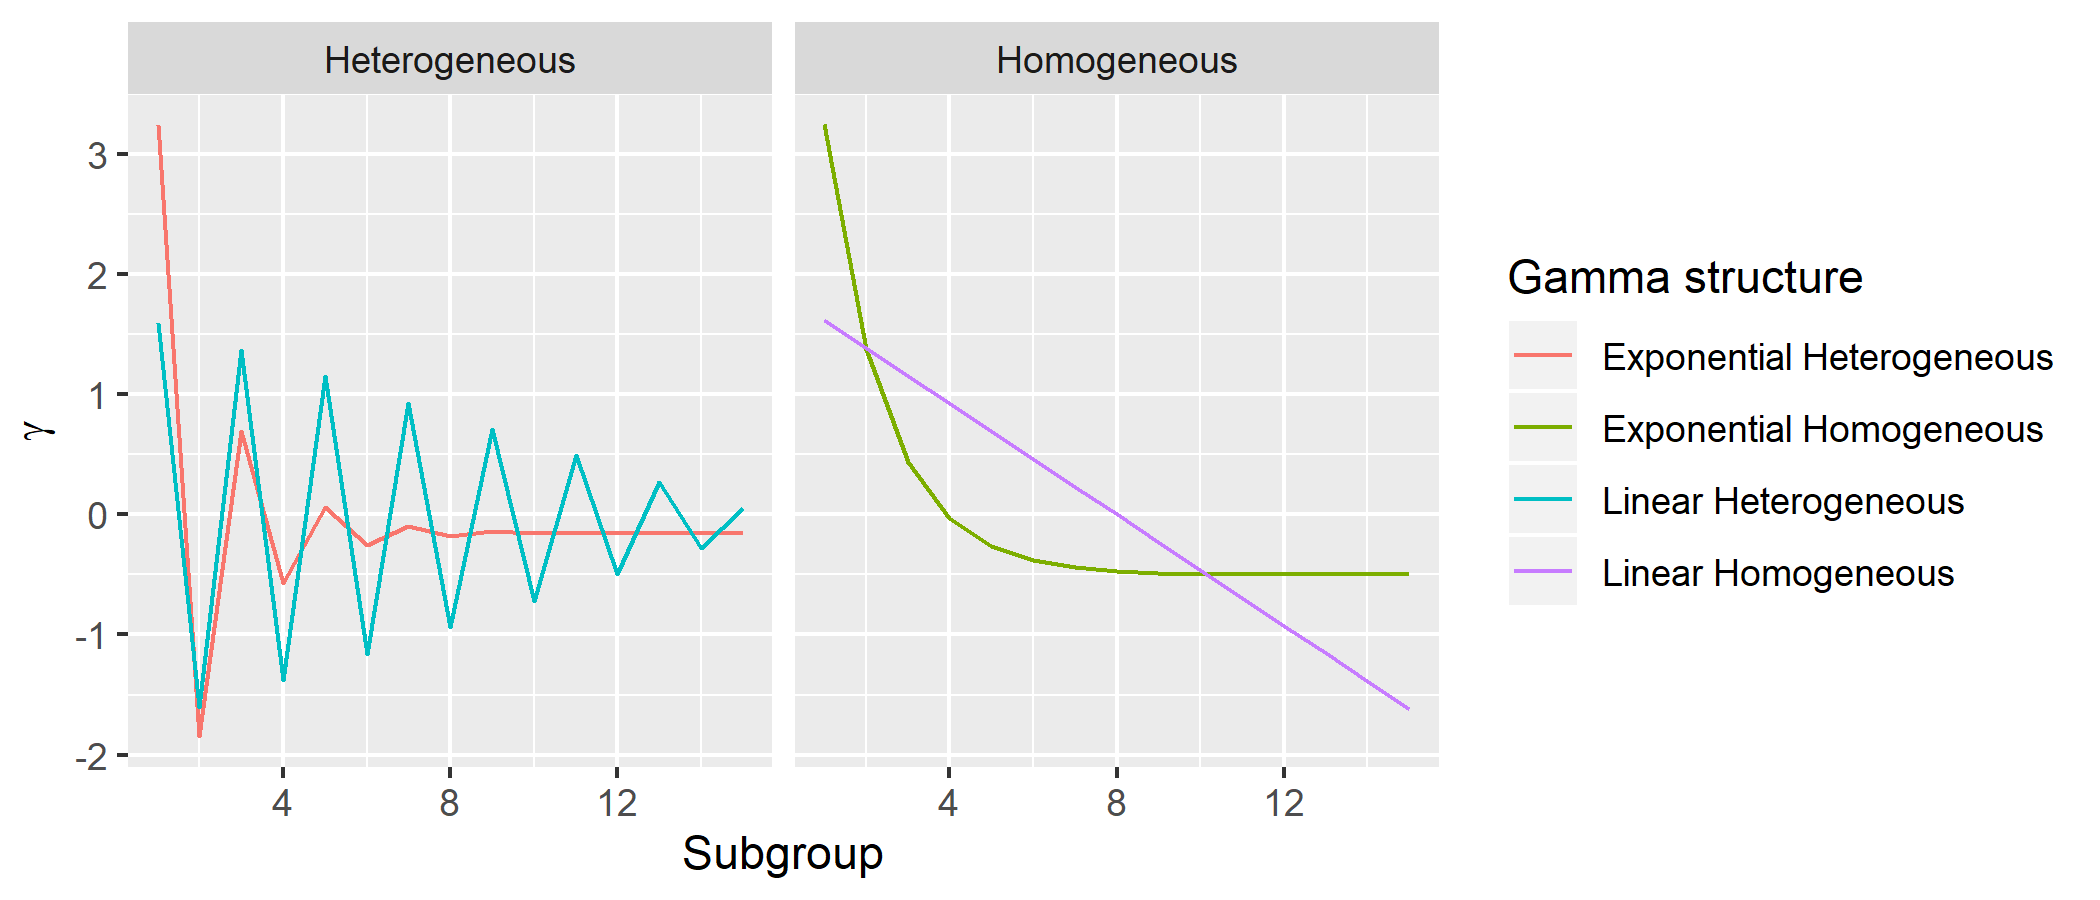
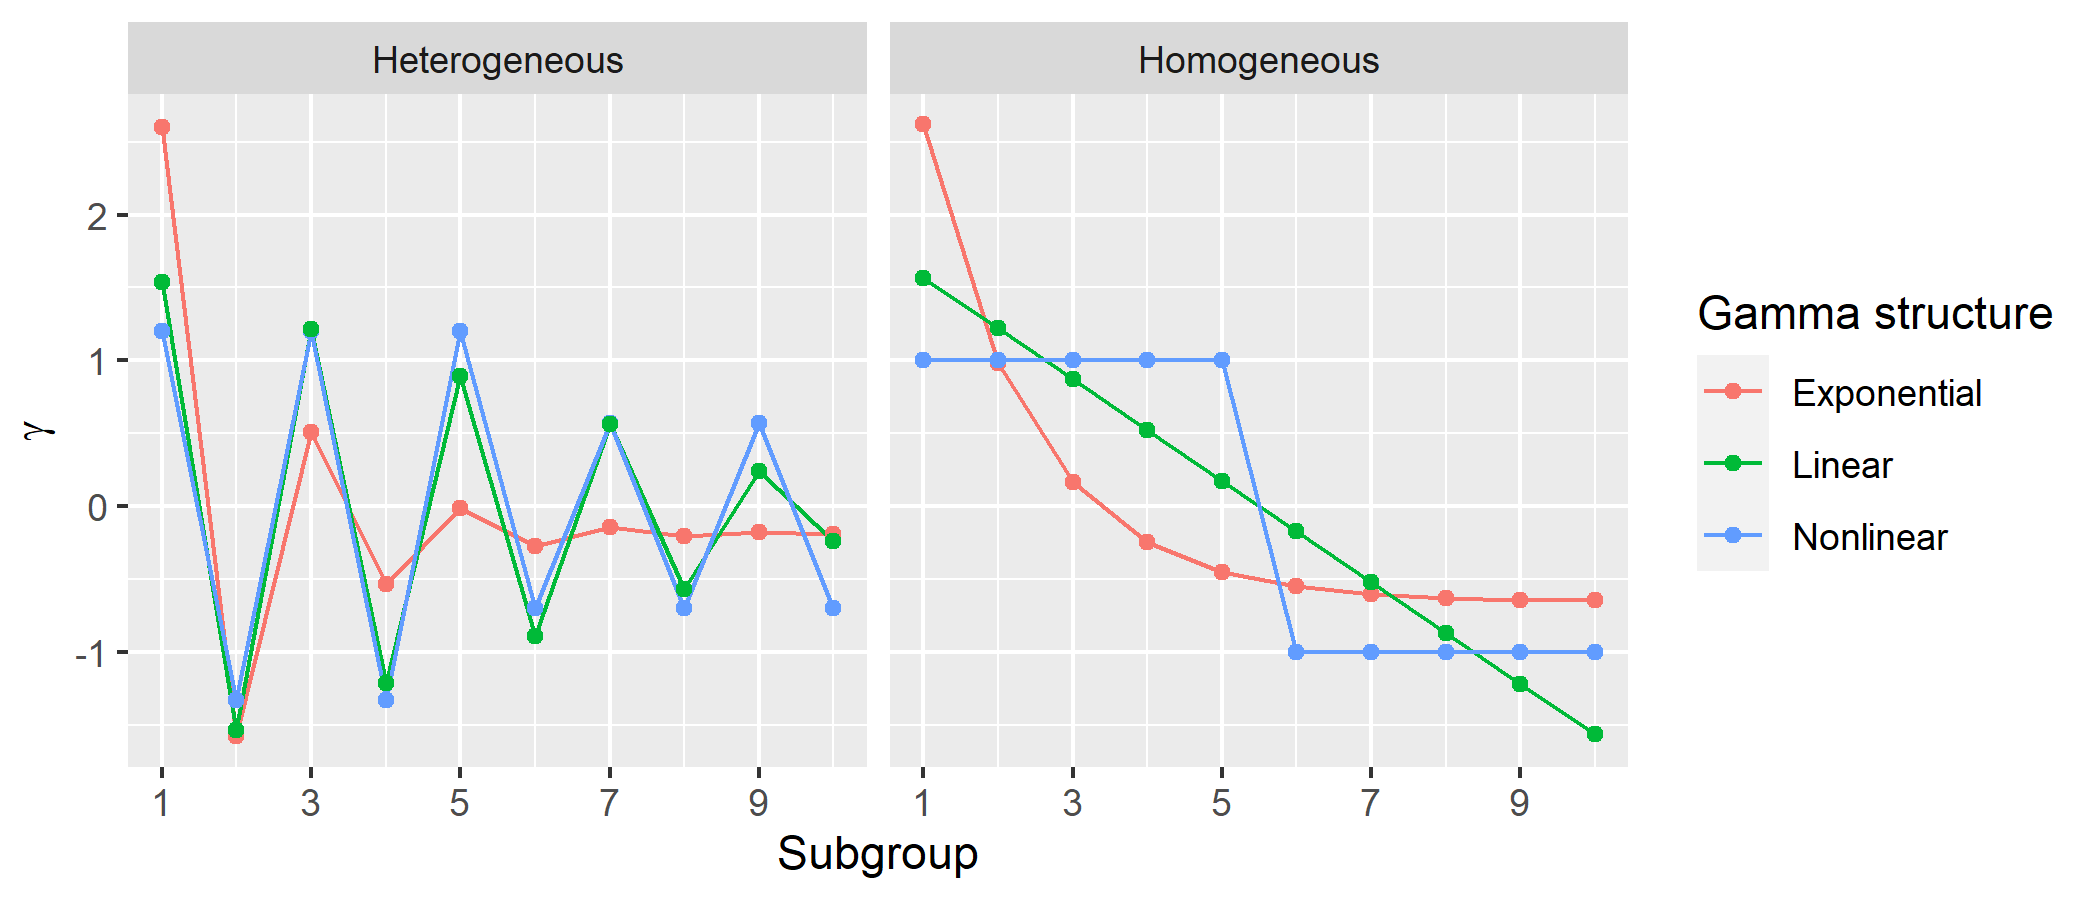
Updating figures

diff --git a/main.tex b/main.tex
@@ -263,15 +263,13 @@ Firstly, these penalized regression methods were compared in the presence of var
 \anna{
 \begin{itemize}
     \item Need details about the real data once it's run
-    \item Update figure with Vanderwas-generated simulation data
-    \item Add dashed line to legend (dashed = null model mse)
-    \item Should I mention subpopulation sizes (a few large ones) or gamma structure (half-and-half-heterogeneous) here? Those are covered in more detail later.
+    \item Should I mention subpopulation sizes (a few large ones) or gamma structure (half-and-half-heterogeneous) here? No - do a brief summary where noted above
 \end{itemize}
 }
 
 \begin{figure}[H]
     \centering
-    \includegraphics[scale = 0.9]{figures/fig1b.png}
+    \includegraphics[scale = 1.1]{figures/beta_mse.png}
     \caption{MSE for different data types in the presence and absence of environmental confounding.}
     \label{fig:mse}
 \end{figure}
@@ -315,20 +313,19 @@ Given the superior performance of PC-Lasso and LMM-Lasso compared to the naive l
 \label{fig:kinship}
 \end{figure}
 
-Pseudophenotypes for these simulations were again generated using a 1:1 SNR, $\eta = 0.5$, and in the presence of moderate environmental confounding, $\xi = 0.5$. Figure \ref{fig:big_vs_small} summarizes the results of these simulations with the y-axis displaying the difference in MSE (PC-Lasso - LMM-Lasso) for each simulation and for the various subpopulation structures. The dashed horizontal line at 0 indicates no difference in the performance of PC-Lasso and LMM-Lasso, while differences greater than 0 correspond to smaller MSE for LMM-Lasso, and thus superior estimation accuracy. In the presence of a small number of large subpopulations, there is some overlap in the estimation accuracy of PC-Lasso and LMM-Lasso, as evidenced by the corresponding box straddling the 0 line. However, the majority of the box falls below 0, indicating the superior performance of PC-Lasso in many of the simulations. In the presence of many small subpopulations, however, LMM-Lasso is clearly superior to PC-Lasso in estimation accuracy. \cite{hoffman2013correcting} showed that principal component adjustment methods represent a low dimensional approximation to linear mixed models. As such, it is reasonable that PC-Lasso, which corrects for population structure using a low dimensional set of surrogate variables, would perform well in the small-number-of-large-subpopulations setting, but fall short in the presence of many small subpopulations. Additionally, its performance in this context may also be augmented by the fact that the subpopulations are more discretized  easily distinguishable based on their observed genetic data in the independent subpopulation simulated data. The BNPSD 1-dimensional admixture simulation method is unable to accommodate a large number of small subpopulations. \anna{However, the results for the few large subgroups in the 1-dimensional admixture simulated data show more comparable results between PC-Lasso and LMM-Lasso. 
-} \anna{(I still need to run these sims and add the results to the figure below)}
+Pseudophenotypes for these simulations were again generated using a 1:1 SNR, $\eta = 0.5$, and in the presence of moderate environmental confounding, $\xi = 0.5$. Figure \ref{fig:big_vs_small} summarizes the results of these simulations with the y-axis displaying the difference in MSE (PC-Lasso - LMM-Lasso) for each simulation and for the various subpopulation structures. The dashed horizontal line at 0 indicates no difference in the performance of PC-Lasso and LMM-Lasso, while differences greater than 0 correspond to smaller MSE for LMM-Lasso, and thus superior estimation accuracy. In the presence of a small number of large subpopulations, there is some overlap in the estimation accuracy of PC-Lasso and LMM-Lasso, as evidenced by the corresponding box straddling the 0 line. However, the majority of the box falls below 0, indicating the superior performance of PC-Lasso in many of the simulations. In the presence of many small subpopulations, however, LMM-Lasso is clearly superior to PC-Lasso in estimation accuracy. \cite{hoffman2013correcting} showed that principal component adjustment methods represent a low dimensional approximation to linear mixed models. As such, it is reasonable that PC-Lasso, which corrects for population structure using a low dimensional set of surrogate variables, would perform well in the small-number-of-large-subpopulations setting, but fall short in the presence of many small subpopulations. 
 
 \anna{
 \begin{itemize}
-    \item Vanderwas data to show results for subpopulations of unequal size
-    \item results for BNPSD 1d admixture data with large subgroups
+    \item I ran this but think it just makes things more confusing - go back to only independent subpopulations data - for both (?) 
 \end{itemize}
 }
 
 
 \begin{figure}[H]
     \centering
-    \includegraphics[scale = 0.7]{figures/fig2a}
+    % \includegraphics[scale = 0.9]{figures/mse_diff_subpops}
+     \includegraphics[scale = 0.9]{figures/fig2a.png}
     \caption{Relative performance of LMM-Lasso, PC-Lasso in terms of estimation accuracy.}
     \label{fig:big_vs_small}
 \end{figure}
@@ -338,13 +335,7 @@ Pseudophenotypes for these simulations were again generated using a 1:1 SNR, $\e
 \subsection{LMM-Lasso outperforms PC-Lasso when $\gamma$ is heterogeneous}
 %------------------------------%
 
-In addition to considering the effect of population structure, or forms of $\bZ$, on these methods' estimation accuracy, we also evaluated the effect of varying forms of $\bgamma$, the subpopulation-specific effect sizes. Our initial thinking was that structures of $\bgamma$ that can be well-approximated by a linear combination of the observed genetic data would be well-approximated and corrected for by PC-Lasso, whereas LMM-Lasso may be more able to correct for subpopulation-specific effects that do not lend themselves to linear approximations. To that end we investigated four distinct $\bgamma$ structures: linear homogeneous, linear heterogeneous, nonlinear homogeneous, and nonlinear heterogeneous, \anna{(names probably need to change. We've moved to half-and-half, not exponential, as a more illustrative nonlinear setting)}. In our naming convention, linear/nonlinear refers to whether the coefficients follow a linear pattern versus a nonlinear form, while homogeneous/heterogeneous indicates whether coefficients have the same, or differing signs, respectively. For example, (1, -2, 3, -4) is an example of a linear-heterogeneous structure, whereas (2, 2, 1, 1) is a nonlinear-homogeneous form. Figure \ref{fig:gamma_structures} displays a visual summary of these coefficient structures. \\
-
-\anna{
-\begin{itemize}
-    \item Replace exponential with half-and-half
-\end{itemize}
-}
+In addition to considering the effect of population structure, or forms of $\bZ$, on these methods' estimation accuracy, we also evaluated the effect of varying forms of $\bgamma$, the subpopulation-specific effect sizes. Our initial thinking was that structures of $\bgamma$ that can be well-approximated by a linear combination of the observed genetic data would be well-approximated and corrected for by PC-Lasso, whereas LMM-Lasso may be more able to correct for subpopulation-specific effects that do not lend themselves to linear approximations. To that end we investigated six distinct $\bgamma$ structures: linear homogeneous, linear heterogeneous, nonlinear homogeneous, nonlinear heterogeneous, exponential homogeneous, and exponential heterogeneous. In our naming convention, linear/nonlinear refers to whether the coefficients follow a linear pattern versus a nonlinear form, while homogeneous/heterogeneous indicates whether coefficients have the same, or differing signs, respectively. For example, (1, -2, 3, -4) is an example of a linear-heterogeneous structure, whereas (2, 2, 1, 1) is a nonlinear-homogeneous form. Figure \ref{fig:gamma_structures} displays a visual summary of these coefficient structures. \\
 
 \begin{figure}[H]
     \centering
@@ -357,7 +348,8 @@ We thus evaluate PC-Lasso and LMM-Lasso in the presence of large and small subpo
 
 \begin{figure}[H]
     \centering
-    \includegraphics[scale = 0.9]{figures/fig2b.png}
+    % \includegraphics[scale = 0.9]{figures/fig2b.png}
+    \includegraphics[scale = 0.9]{figures/mse_diff_hetero.png}
     \caption{Relative performance of LMM-Lasso, PC-Lasso for different subpopulation and $\bgamma$ structures}
     \label{fig:big_small_gamma}
 \end{figure}
@@ -371,13 +363,35 @@ In section 3 briefly mentioned the existence of to LMM-Lasso variants: LMM-Lasso
 LMM-Lasso-Rakitsch estimates the variance components once, under the assumption of a null model. LMM-Lasso-ggmix seeks to improve upon this by re-estimating the variance components and $\bbeta$ iteratively. Although this seems a reasonable approach, we have been unable to find a scenario where LMM-Lasso-ggmix outperforms the LMM-Lasso-Rakitsch in estimation accuracy of $\bbeta$ or $\eta$. 
 \anna{
 \begin{itemize}
-    \item ggmix vs lmmlasso MSE plot will go here once run and pretty
-    \item ggmix vs lmmlasso eta-hat plot will go here once run and pretty
+    \item ggmix vs lmmlasso MSE plot will go here once run and pretty: options
 \end{itemize}
 }
 
+\begin{figure}[H]
+    \centering
+    \includegraphics[scale = 0.9]{figures/eta_hat.png}
+    \includegraphics[scale = 0.9]{figures/beta_hat.png}
+\end{figure}
 
-In addition, we have found that LMM-Lasso-ggmix performs poorly in a low-dimensional setting due to the ill-conditioning of the RRM. Given its intended use for the analysis of high-dimensional data, this fact could be of little consequence to practitioners. However, although its estimation accuracy in high dimensions is on par with that of LMM-Lasso-Rakitsch, as shown in \anna{figure xxx}, this is also a setting in which the computational time required may be prohibitive for practical applications. Figure \anna{xxx} shows a ratio of the computing time required for LMM-Lasso-ggmix compared to that of LMM-Lasso-Rakitsch, where the horizontal dashed line at 1 indicates both methods require the same computing time. In high dimenions, where LMM-Lasso-ggmix performs well, it is \anna{approximately X} times slower than LMM-Lasso-Rakitsch. Thus, LMM-Lasso-Rakitsch seems to be a more attractive and scalable method than LMM-Lasso-ggmix.
+
+\begin{figure}[H]
+    \centering
+    \includegraphics[scale = 1]{figures/eta_beta_hat.png}
+\end{figure}
+
+\newpage
+\anna{The error bars are indicating differences across different values of xi and simulated data-types (indepent and 1d linear admixture - this may be confusing/something to change or describe explicitly.
+}
+
+\begin{figure}[H]
+    \centering
+    \includegraphics[scale = 0.8]{figures/time_ratio.png}
+    % \caption{Relative performance of LMM-Lasso, PC-Lasso for different subpopulation and $\bgamma$ structures}
+    \label{fig:time}
+\end{figure}
+
+
+In addition, we have found that LMM-Lasso-ggmix performs poorly in a low-dimensional setting due to the ill-conditioning of the RRM. Given its intended use for the analysis of high-dimensional data, this fact could be of little consequence to practitioners. However, although its estimation accuracy in high dimensions is on par with that of LMM-Lasso-Rakitsch, as shown in \anna{figure xxx}, this is also a setting in which the computational time required may be prohibitive for practical applications. Figure \ref{fig:time} shows the ratio of computing time required for LMM-Lasso-ggmix compared to that of LMM-Lasso-Rakitsch, for various sample sizes. The horizontal dashed line at 1 indicates both methods require the same computing time. Despite its comparable performance in accurately estimating $\hat{\bbeta}$, LMM-Lasso-ggmix takes approximately 71 to 9 times as long as LMM-Lasso-Rakitsch. Thus, LMM-Lasso-Rakitsch seems to be a more attractive and scalable method than LMM-Lasso-ggmix.
 
 
 %%%%%%%%%%%%%%%%%%%%%%%%%%%%%%%%
